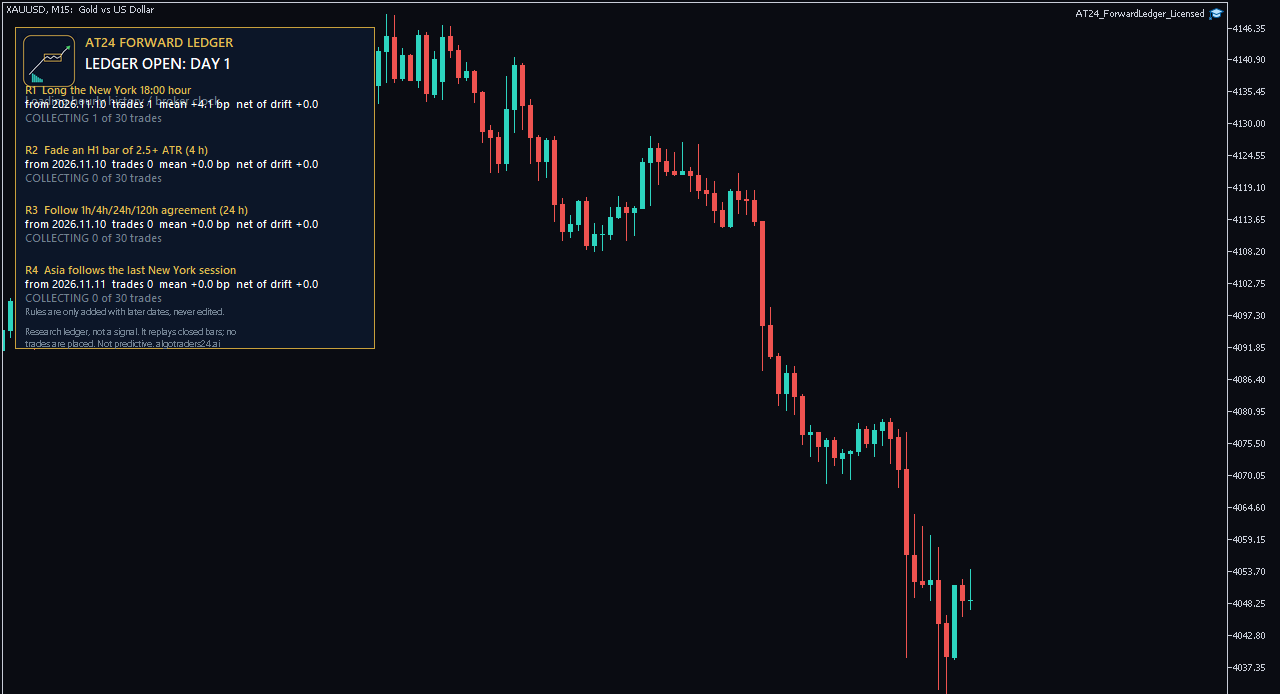
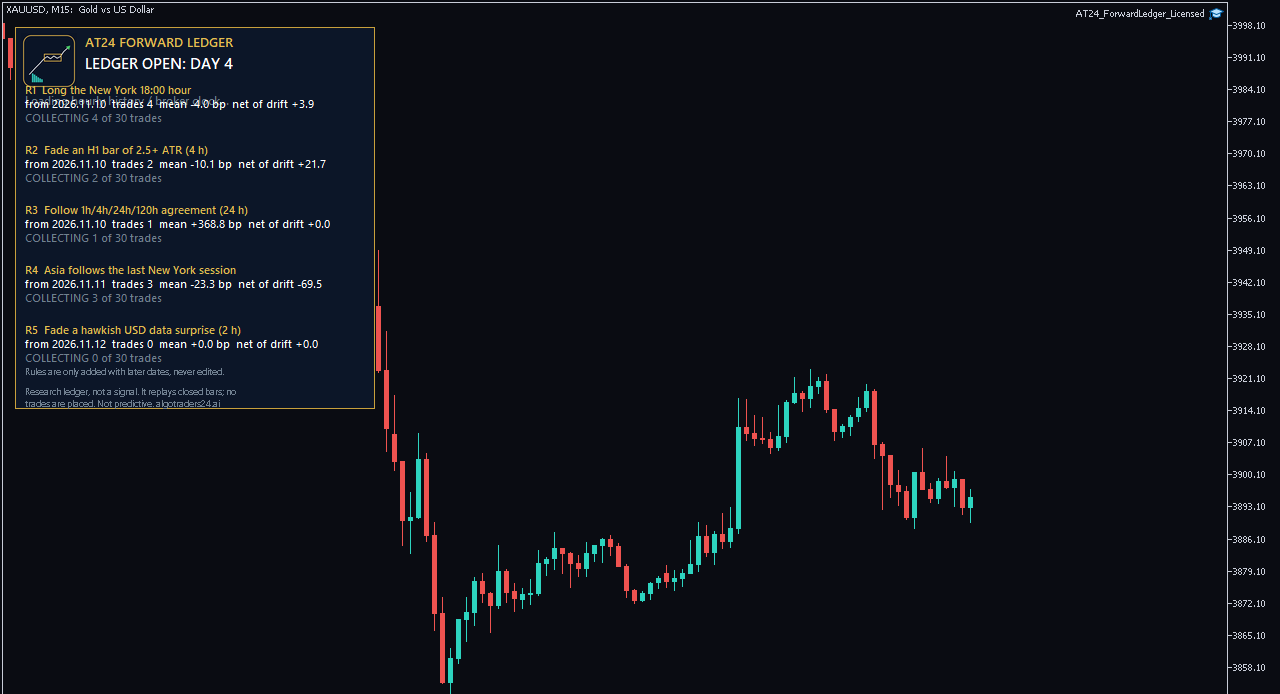
feat(marketplace): AT24 Forward Ledger MT5 v1.02 (fifth rule, five-rule threshold)

diff --git a/frontend/scripts/create-at24-forward-ledger-listings.ts b/frontend/scripts/create-at24-forward-ledger-listings.ts
@@ -19,7 +19,7 @@ const FOOT = `\n\nDescriptive history on your own broker data. Context tool, not
 
 const LICENCE = `\n\nLICENCE KEY: the download is protected by your AT24 licence key. One key works on ONE trading account at a time and only for this product; you can move it to another account yourself (2 changes per 30 days) from Dashboard > Purchases. After buying, paste the key from your purchase page into the EA input "InpLicenseKey" and allow https://www.algotraders24.ai under Tools > Options > Expert Advisors > Allow WebRequest. The Strategy Tester needs no key.`;
 
-const RESULT = `On the day the ledger opened (2026-11-10 UTC) every rule read 'collecting' (fewer than 30 trades) - the honest starting point. A rule only gets a verdict after enough trades, and only when it beats chance after correcting for the number of rules registered. Most ideas never will; that is the point of the ledger.`;
+const RESULT = `After four days the ledger shows every rule still 'collecting' (fewer than 30 trades each; the fifth rule has none yet) - the honest starting point. A rule only gets a verdict after enough trades, and only when it beats chance after correcting for the number of rules registered (five). Most ideas never will; that is the point of the ledger.`;
 
 type Product = { slug: string; title: string; tradingSystemId: string; version: string; platform: string; zip: string; banner: string; tags: string[]; description: string };
 
@@ -28,22 +28,22 @@ const PRODUCTS: Product[] = [
     slug: "at24-forward-ledger",
     title: "AT24 Forward Ledger (MT5)",
     tradingSystemId: "AT24-FORWARD-LEDGER",
-    version: "1.01",
+    version: "1.02",
     platform: "MT5",
-    zip: "AT24_ForwardLedger_MT5_v1.01.zip",
+    zip: "AT24_ForwardLedger_MT5_v1.02.zip",
     banner: "forward-ledger-banner.png",
     tags: ["indicator", "research", "out-of-sample", "forward-test", "pre-registered", "statistics", "dashboard", "gold", "mt5", "demo-tested"],
-    description: `Almost every 'edge' online is found by looking at history and then tested on the same history. AT24 Forward Ledger does the opposite: a candidate rule is written down with a date, and only what happens after that date counts. It shows, live, how many trades each rule has made, the average return, the average net of the market's own drift, a t-statistic and a verdict that only turns green when the result beats chance after correcting for the number of rules registered.
+    description: `Almost every 'edge' online is found by looking at history and then tested on the same history. AT24 Forward Ledger does the opposite: a candidate rule is written down with a date, and only what happens after that date counts. It shows, live, how many trades each rule has made, the average return, the average net of the market's own drift, a t-statistic and a verdict that only turns green when the result beats chance after correcting for the number of rules registered (five).
 
 What you get
-- Research candidate rules registered with dates (the rules are shown on the dashboard), each tallied out-of-sample from its own start date.
+- Five research candidate rules registered with dates (shown on the dashboard; one uses the broker's USD economic calendar, which your broker must provide), each tallied out-of-sample from its own start date.
 - Trades so far, mean return, mean net of drift, t-statistic and a plain verdict: collecting, no edge so far, or positive/negative so far.
 - Recomputed from your own broker's closed hourly bars: nothing is stored or sent. The broker clock is detected automatically (other FX pairs are tried if the chart symbol cannot be used) and can be set by hand.
 - A labelled REPLAY mode that shows how misleading in-sample numbers can be.
 
 It is delivered as a non-trading utility Expert Advisor with the indicator built into the file (MT5 does not allow licence checks inside indicators): attach it to a chart and the dashboard appears.
 
-What was verified: compiles with 0 errors and 0 warnings in the real MetaEditor and runs on a real MT5 XAUUSD chart (see the screenshot). The ledger engine matches an independent Python calculation (four rules from three start dates, all identical).
+What was verified: compiles with 0 errors and 0 warnings in the real MetaEditor and runs on a real MT5 XAUUSD chart (see the screenshot). The ledger engine matches an independent Python calculation (identical numbers across the registered rules and start dates). Not verified: the calendar-based rule on every broker's calendar feed.
 ${RESULT}
 Not verified: live-money use, alerts beyond a screenshot, the licence check with a real purchase. MetaTrader 5 only.${FOOT}${LICENCE}`,
   },
